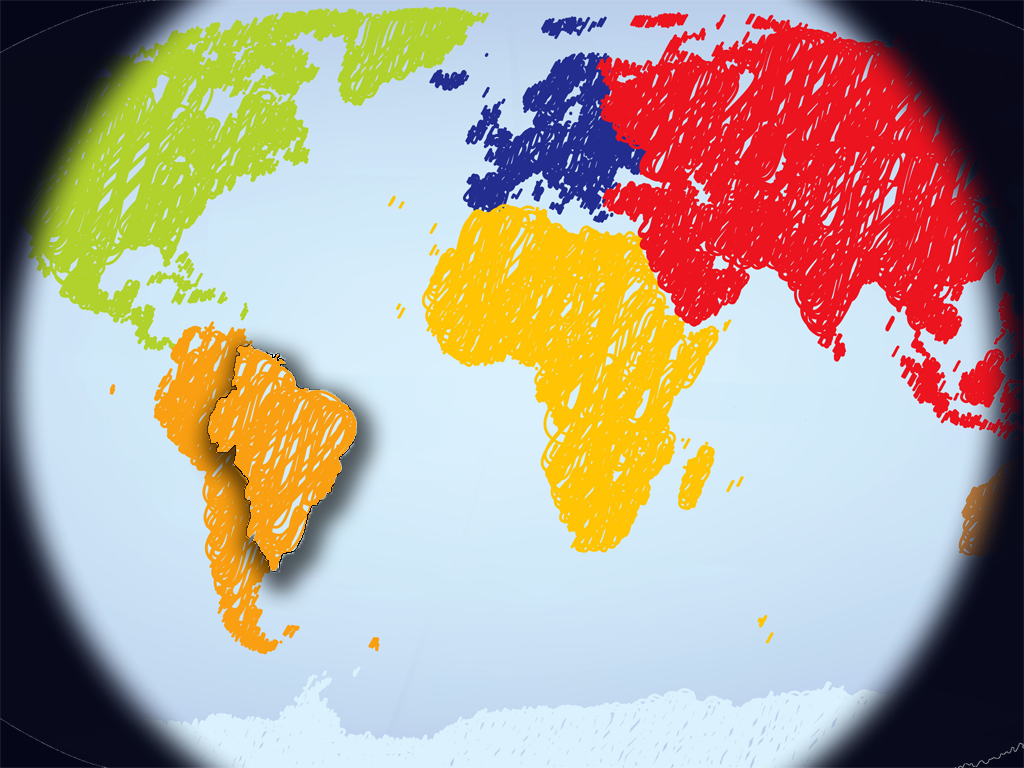
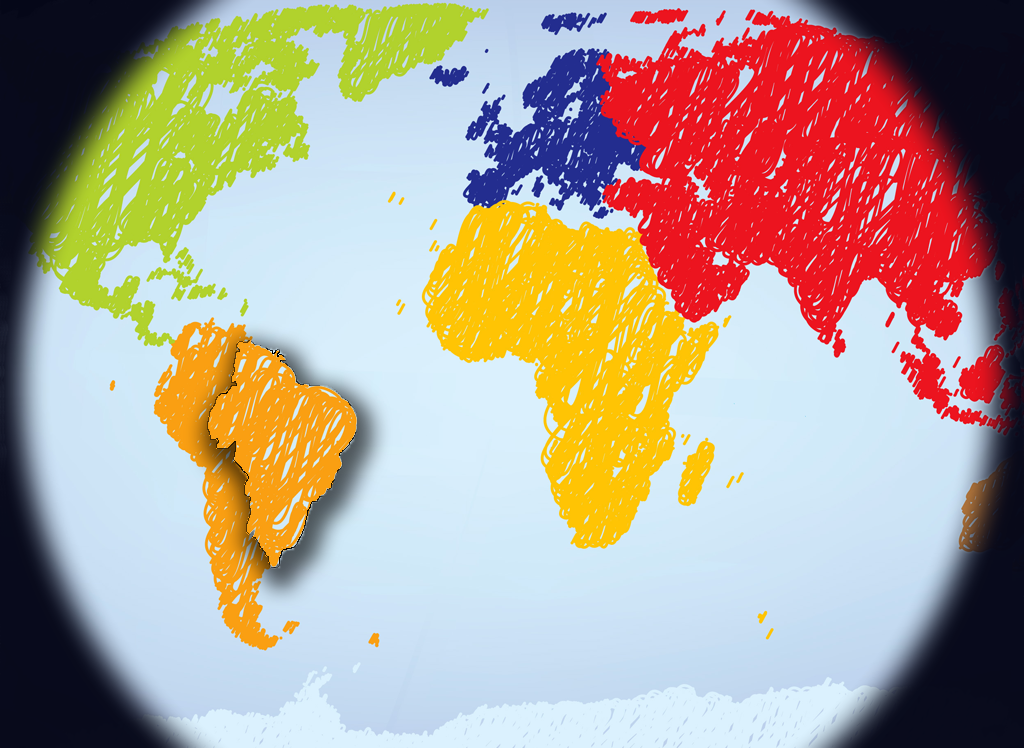
wire up real images and zoom splash screen

diff --git a/Classes/RootViewController.m b/Classes/RootViewController.m
@@ -11,6 +11,8 @@
 
 @implementation RootViewController
 
+@synthesize splashView;
+
 - (void)viewDidLoad {
     [super viewDidLoad];
 	[[NSNotificationCenter defaultCenter] addObserver:self
@@ -22,6 +24,9 @@
 												 name:@"GlobeSelected" 
 											   object:nil];
 	weeAtlasViewController = [[WeeAtlasViewController alloc] init];
+	CGRect mapRect = weeAtlasViewController.view.frame;
+	mapRect.origin.y += 26;
+	weeAtlasViewController.view.frame = mapRect;
 	[self.view addSubview:weeAtlasViewController.view];
 	[weeAtlasViewController growSplash];
 }
@@ -32,9 +37,14 @@
 - (void)handleReturnToGlobe {
 }
 
+// Override to allow orientations other than the default portrait orientation.
+- (BOOL)shouldAutorotateToInterfaceOrientation:(UIInterfaceOrientation)interfaceOrientation {
+    return UIInterfaceOrientationIsLandscape(interfaceOrientation);
+}
 
 - (void)dealloc {
 	[weeAtlasViewController release];
+	[splashView release];
     [super dealloc];
 }
 

diff --git a/Classes/WeeAtlasViewController.m b/Classes/WeeAtlasViewController.m
@@ -56,17 +56,17 @@
 	self.mapView.hidden = NO;
 	self.mapView.alpha = 0;
 	[UIView beginAnimations:@"crossFadeSplashToMap" context:nil];
+	[UIView setAnimationDuration:1];
 	self.splashView.alpha = 0;
 	self.mapView.alpha = 1;
 	[UIView commitAnimations];
 }
 
-
-
 // Override to allow orientations other than the default portrait orientation.
 - (BOOL)shouldAutorotateToInterfaceOrientation:(UIInterfaceOrientation)interfaceOrientation {
-    return YES;
+    return UIInterfaceOrientationIsLandscape(interfaceOrientation);
 }
+
 - (void)dealloc {
 	[brazilButton release];
 	[countryVC release];

diff --git a/Classes/RootViewController.h b/Classes/RootViewController.h
@@ -13,6 +13,9 @@
 @interface RootViewController : UIViewController {
 	WeeAtlasViewController *weeAtlasViewController;
 	CountryViewController *countryViewController;
+	UIView *splashView;
 }
+
+@property(nonatomic, retain) IBOutlet UIView *splashView;
 
 @end
